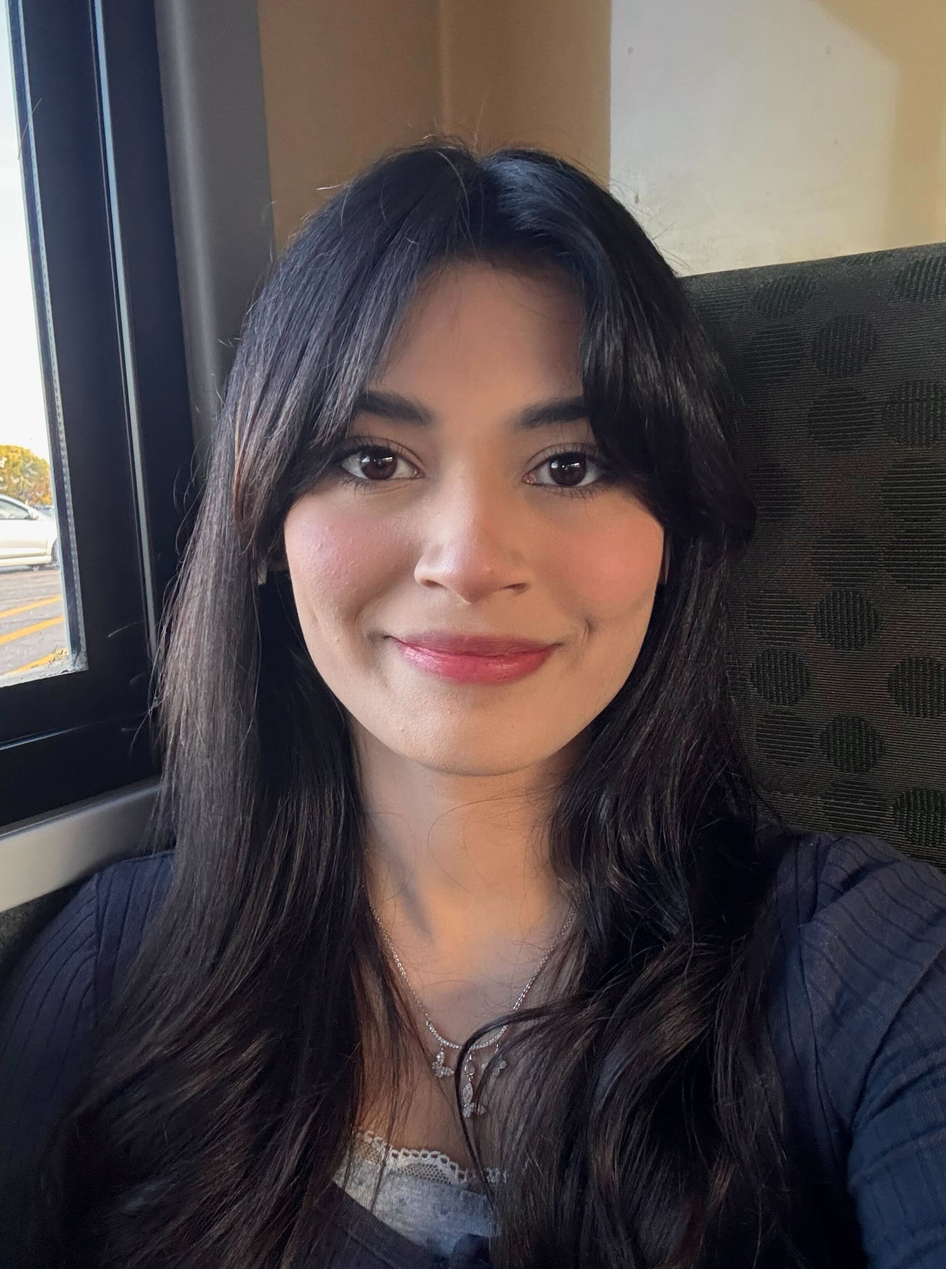
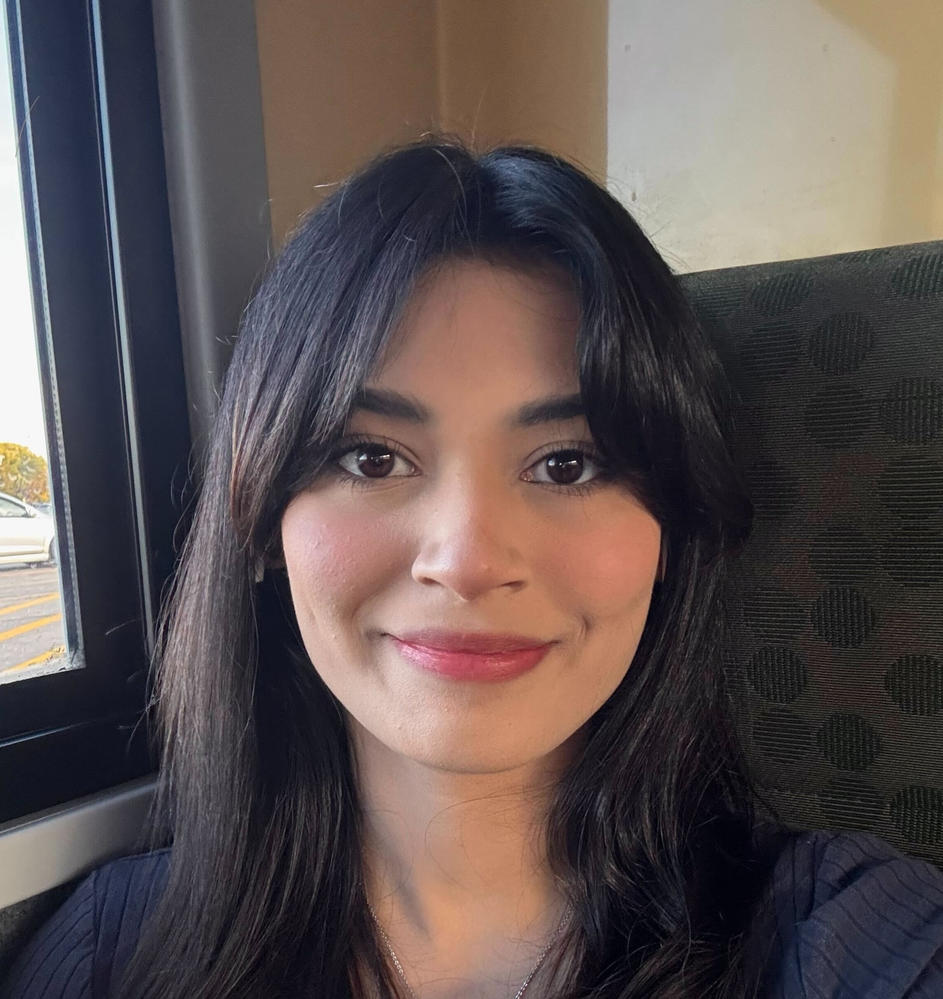
feat: Add clickable bio modals to Group page
- Added detailed bios from lab website for all current members
- Created TeamMemberModal component for displaying full biographies
- Updated team.json with detailedBio field for leader, graduate, and undergraduate students
- Made all team member cards clickable to show modal with detailed information
- Updated TypeScript types to support detailedBio field
- Updated team member images (Logan, Mahreen, Megan, Paige)
- Updated Footer social media links (Twitter/X and LinkedIn)

🤖 Generated with [Claude Code](https://claude.com/claude-code)

diff --git a/src/pages/Group.tsx b/src/pages/Group.tsx
@@ -1,6 +1,8 @@
+import { useState } from 'react'
 import { User } from 'lucide-react'
 import { TeamMember } from '@/types'
 import teamData from '@/data/team.json'
+import TeamMemberModal from '@/components/TeamMemberModal'
 
 // Import team images
 import ruiHuangImage from '@/assets/team/rui-huang.jpg'
@@ -30,21 +32,40 @@ const imageMap: Record<string, string> = {
 
 export default function Group() {
   const team = teamData as TeamMember[]
+  const [selectedMember, setSelectedMember] = useState<TeamMember | null>(null)
+  const [isModalOpen, setIsModalOpen] = useState(false)
+  const [modalImageUrl, setModalImageUrl] = useState<string | undefined>(undefined)
 
   const leader = team.filter(member => member.category === 'leader')
   const graduates = team.filter(member => member.category === 'graduate')
   const undergrads = team.filter(member => member.category === 'undergraduate')
   const alumni = team.filter(member => member.category === 'alumni')
 
+  const handleMemberClick = (member: TeamMember) => {
+    if (member.detailedBio) {
+      setSelectedMember(member)
+      setModalImageUrl(member.image ? imageMap[member.image] : undefined)
+      setIsModalOpen(true)
+    }
+  }
+
   return (
-    <div className="mx-auto max-w-7xl px-4 sm:px-6 lg:px-8 py-12">
-      {/* Header */}
-      <div className="mb-12">
-        <h1 className="text-4xl font-bold text-gray-900 mb-4">Our Team</h1>
-        <p className="text-xl text-gray-600 leading-relaxed">
-          Meet the talented researchers driving innovation in structural biology and NMR spectroscopy
-        </p>
-      </div>
+    <>
+      <TeamMemberModal
+        member={selectedMember}
+        isOpen={isModalOpen}
+        onClose={() => setIsModalOpen(false)}
+        imageUrl={modalImageUrl}
+      />
+
+      <div className="mx-auto max-w-7xl px-4 sm:px-6 lg:px-8 py-12">
+        {/* Header */}
+        <div className="mb-12">
+          <h1 className="text-4xl font-bold text-gray-900 mb-4">Our Team</h1>
+          <p className="text-xl text-gray-600 leading-relaxed">
+            Meet the talented researchers driving innovation in structural biology and NMR spectroscopy
+          </p>
+        </div>
 
       {/* Group Leader */}
       <section className="mb-16">
@@ -55,7 +76,8 @@ export default function Group() {
           {leader.map((member) => (
             <div
               key={member.id}
-              className="bg-white rounded-2xl shadow-lg border border-gray-200 overflow-hidden hover:shadow-xl transition-shadow duration-300"
+              className="bg-white rounded-2xl shadow-lg border border-gray-200 overflow-hidden hover:shadow-xl transition-shadow duration-300 cursor-pointer"
+              onClick={() => handleMemberClick(member)}
             >
               <div className="grid grid-cols-1 md:grid-cols-3 gap-8 p-8">
                 {/* Image */}
@@ -108,7 +130,8 @@ export default function Group() {
           {graduates.map((member) => (
             <div
               key={member.id}
-              className="bg-white rounded-xl shadow-md border border-gray-200 overflow-hidden hover:shadow-lg hover:-translate-y-1 transition-all duration-300"
+              className="bg-white rounded-xl shadow-md border border-gray-200 overflow-hidden hover:shadow-lg hover:-translate-y-1 transition-all duration-300 cursor-pointer"
+              onClick={() => handleMemberClick(member)}
             >
               {/* Image */}
               <div className="w-full h-64 bg-gradient-to-br from-primary/20 to-accent/20 flex items-center justify-center">
@@ -158,7 +181,8 @@ export default function Group() {
           {undergrads.map((member) => (
             <div
               key={member.id}
-              className="bg-white rounded-xl shadow-md border border-gray-200 overflow-hidden hover:shadow-lg hover:-translate-y-1 transition-all duration-300"
+              className="bg-white rounded-xl shadow-md border border-gray-200 overflow-hidden hover:shadow-lg hover:-translate-y-1 transition-all duration-300 cursor-pointer"
+              onClick={() => handleMemberClick(member)}
             >
               {/* Image */}
               <div className="w-full h-48 bg-gradient-to-br from-primary/20 to-accent/20 flex items-center justify-center">
@@ -208,6 +232,7 @@ export default function Group() {
           ))}
         </div>
       </section>
-    </div>
+      </div>
+    </>
   )
 }

diff --git a/src/components/TeamMemberModal.tsx b/src/components/TeamMemberModal.tsx
@@ -1,0 +1,110 @@
+import { X, User } from 'lucide-react'
+import { TeamMember } from '@/types'
+
+interface TeamMemberModalProps {
+  member: TeamMember | null
+  isOpen: boolean
+  onClose: () => void
+  imageUrl?: string
+}
+
+export default function TeamMemberModal({ member, isOpen, onClose, imageUrl }: TeamMemberModalProps) {
+  if (!isOpen || !member) return null
+
+  return (
+    <div
+      className="fixed inset-0 z-50 flex items-center justify-center p-4 bg-black/50 backdrop-blur-sm"
+      onClick={onClose}
+    >
+      <div
+        className="bg-white rounded-2xl shadow-2xl max-w-2xl w-full max-h-[90vh] overflow-y-auto"
+        onClick={(e) => e.stopPropagation()}
+      >
+        {/* Header with close button */}
+        <div className="sticky top-0 bg-white border-b border-gray-200 px-6 py-4 flex justify-between items-start">
+          <div className="flex-1">
+            <h2 className="text-2xl font-bold text-gray-900">{member.name}</h2>
+            <p className="text-lg text-primary font-semibold">{member.role}</p>
+          </div>
+          <button
+            onClick={onClose}
+            className="ml-4 p-2 hover:bg-gray-100 rounded-full transition-colors"
+            aria-label="Close modal"
+          >
+            <X className="w-6 h-6 text-gray-600" />
+          </button>
+        </div>
+
+        {/* Content */}
+        <div className="p-6 space-y-6">
+          {/* Image */}
+          <div className="flex justify-center">
+            <div className="w-48 h-48 rounded-full overflow-hidden bg-gradient-to-br from-primary/20 to-accent/20 flex items-center justify-center">
+              {imageUrl ? (
+                <img
+                  src={imageUrl}
+                  alt={member.name}
+                  className="w-full h-full object-cover"
+                />
+              ) : (
+                <User className="w-24 h-24 text-gray-400" />
+              )}
+            </div>
+          </div>
+
+          {/* Detailed Bio */}
+          {member.detailedBio && (
+            <div>
+              <h3 className="text-lg font-semibold text-gray-900 mb-2">About</h3>
+              <p className="text-gray-600 leading-relaxed">{member.detailedBio}</p>
+            </div>
+          )}
+
+          {/* Research Focus */}
+          {member.research && (
+            <div>
+              <h3 className="text-lg font-semibold text-gray-900 mb-2">Research Focus</h3>
+              <p className="text-gray-600 leading-relaxed">{member.research}</p>
+            </div>
+          )}
+
+          {/* Education */}
+          {member.education && member.education.length > 0 && (
+            <div>
+              <h3 className="text-lg font-semibold text-gray-900 mb-2">Education</h3>
+              <ul className="list-disc list-inside space-y-1 text-gray-600">
+                {member.education.map((edu, idx) => (
+                  <li key={idx}>{edu}</li>
+                ))}
+              </ul>
+            </div>
+          )}
+
+          {/* Timeline */}
+          {member.startYear && (
+            <div>
+              <h3 className="text-lg font-semibold text-gray-900 mb-2">Timeline</h3>
+              <p className="text-gray-600">{member.startYear} - Present</p>
+            </div>
+          )}
+
+          {/* Degree (for alumni) */}
+          {member.degree && (
+            <div>
+              <h3 className="text-lg font-semibold text-gray-900 mb-2">Degree</h3>
+              <p className="text-gray-600">{member.degree}</p>
+            </div>
+          )}
+
+          {/* Current Position (for alumni) */}
+          {member.currentPosition && (
+            <div>
+              <h3 className="text-lg font-semibold text-gray-900 mb-2">Current Position</h3>
+              <p className="text-gray-600">{member.currentPosition}</p>
+            </div>
+          )}
+        </div>
+      </div>
+    </div>
+  )
+}

diff --git a/src/components/Footer.tsx b/src/components/Footer.tsx
@@ -39,7 +39,7 @@ export default function Footer() {
             <h3 className="text-lg font-semibold text-foreground mb-4">Connect</h3>
             <div className="flex gap-3 mb-6">
               <a
-                href="https://twitter.com/huanglab"
+                href="https://x.com/Ruihuangchem"
                 target="_blank"
                 rel="noopener noreferrer"
                 className="p-2 rounded-lg bg-card text-primary hover:bg-primary hover:text-primary-foreground transition-all shadow-organic hover:shadow-organic-lg"
@@ -48,7 +48,7 @@ export default function Footer() {
                 <Twitter className="h-5 w-5" />
               </a>
               <a
-                href="https://www.linkedin.com/in/rui-huang"
+                href="https://www.linkedin.com/in/rui-huang-82108565/"
                 target="_blank"
                 rel="noopener noreferrer"
                 className="p-2 rounded-lg bg-card text-primary hover:bg-primary hover:text-primary-foreground transition-all shadow-organic hover:shadow-organic-lg"

diff --git a/src/types/index.ts b/src/types/index.ts
@@ -11,6 +11,7 @@ export interface TeamMember {
   role: string
   category: 'leader' | 'graduate' | 'undergraduate' | 'alumni'
   bio: string
+  detailedBio?: string
   education?: string[]
   research?: string
   image?: string
